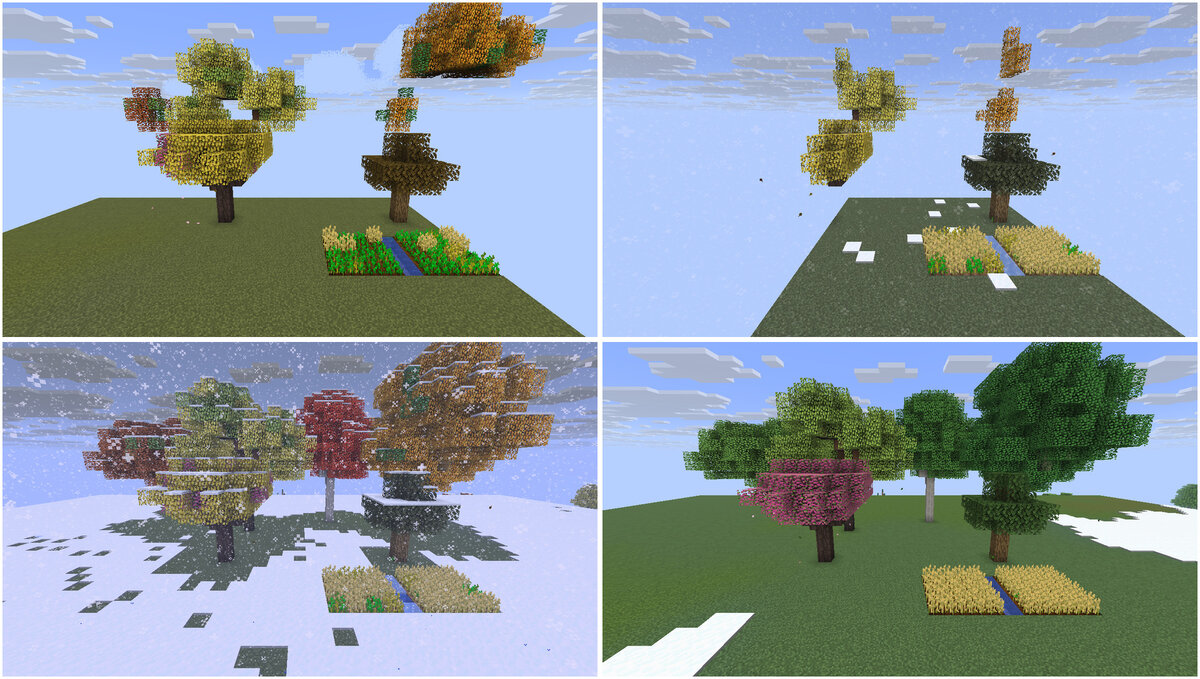
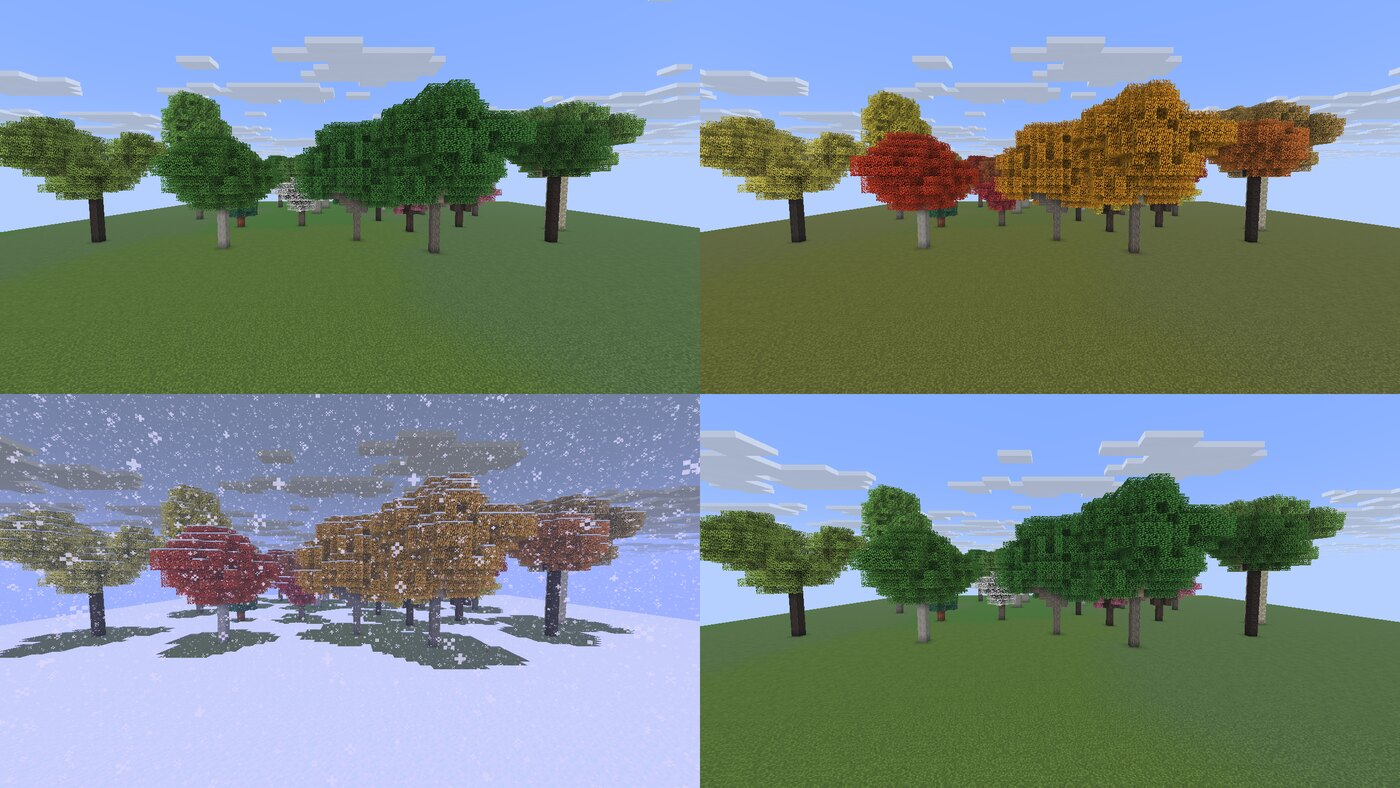
Docs: pipe and engine shots, dust storm, clean seasons sequence; roadmap cannon shot types and engineering ideas; release 1.6.0
Claude-Session: https://claude.ai/code/session_01M5QtgiQGYPBXfdb72XCowG

diff --git a/docs/engineering_ideas.md b/docs/engineering_ideas.md
@@ -1,0 +1,247 @@
+# Engineering ideas
+
+A brainstorm of new engineering blocks and items for RyanCraft. Nothing here is built or promised; it's a pool to pick
+from. It avoids what already exists or is planned (pipes, engines, tanks, pumps, the Ender Terminal, steel, cannons,
+muskets, lead shot, the force field generator, special chests, cages, cooking).
+
+## Design principles
+
+**The tech ceiling.** Muscle, wind, water, weight, springs, fire, plus vanilla's own "magic tech"
+(ender pearls, shulkers, end rods, sculk, copper, the crafter, trial chambers). Nothing electric, no screens, no
+computers, no fuel more advanced than coal and blaze powder. If a 1700s millwright or a vanilla End city couldn't
+plausibly have it, it's out.
+
+**What makes an idea fit:**
+- **It plugs into what we have.** The common currency is the *engine pulse*: an engine pushes one stroke into the
+  block it faces. New power sources should make pulses too, and new machines should take them. Items go in and out by
+  pipe or hopper; fluids by fluid pipe; control is plain redstone.
+- **You can see it work.** Gears turn, sails spin, arms swing, items ride. A machine that just sits there with a GUI is
+  a worse idea than one you can watch.
+- **Vanilla materials, vanilla look.** Planks, logs, cobble, iron, copper, our steel, wool, string, leather. Textures in
+  the 16x16 vanilla style, and every block should look fine in a plain survival base.
+- **Small, not a tech tree.** Each block does one clear job. Redstone already covers logic, so we don't add logic gates.
+- **Copper ages.** Copper parts should oxidise and be waxable, like vanilla copper, and ideally oxidation should matter
+  (slower, quieter, or just a look you can pick).
+
+## Ideas
+
+### Power from nature: wind, water and animals
+
+**1. Waterwheel**
+- *Pitch:* a big wooden wheel that turns in flowing water and gives steady, slow engine pulses for free.
+- *Play:* a 3x3 (or 5x5) wheel placed beside its hub block; flowing water on the paddles turns it. The hub's axle face
+  pulses like a redstone engine (slow but never needs fuel). Faster water (more flowing blocks under the wheel) means a
+  shorter period. Stops if the water freezes in winter, which ties into seasons.
+- *Recipe:* hub from logs and an iron ingot; paddles from planks and sticks, placed in a ring.
+- *Why vanilla:* it's just wood and water, and vanilla already has flowing-water mechanics and moving parts to show it off.
+
+**2. Windmill sails**
+- *Pitch:* sails on a hub that spin faster the higher and more open they are.
+- *Play:* a hub with four wool-and-stick sail arms. Pulse rate scales with height (reusing the altitude wind we
+  already have in the ambience) and drops if blocks crowd the sails. Gets a boost in thunderstorms. Wool colour
+  is cosmetic.
+- *Recipe:* hub from logs and iron; each sail from sticks, string and any wool.
+- *Why vanilla:* wool and sticks, and it rewards the same "build a tower" instinct vanilla players already have.
+
+**3. Treadwheel**
+- *Pitch:* a big wooden wheel that a mob walks in to make power.
+- *Play:* lead a cow, pig, horse, villager or yourself into the wheel; walking turns it and pulses the axle. Stronger
+  mobs (horses, our oxen-sized bison) pulse faster. Animals need feeding now and then or they slow down; feeding through
+  a hopper keeps it going.
+- *Recipe:* planks, logs, a lead.
+- *Why vanilla:* it uses leads, animal feeding and mob pathing, all things the game already has.
+
+**4. Axle and gearbox**
+- *Pitch:* wooden axles and a gearbox that carry engine pulses around corners and over distance.
+- *Play:* axles carry pulses in a straight line (up to 16 blocks, each step losing nothing but turning visibly). A
+  gearbox splits or turns the pulse 90 degrees, or steps it up (half the strength, twice as often) or down (twice the
+  strength, half as often), set with the wrench. Lets a waterwheel at the river power a blast furnace up the hill.
+- *Recipe:* axle from stripped logs; gearbox from planks, iron nuggets and a copper ingot (copper gears). Steel gearbox
+  for long runs.
+- *Why vanilla:* it's the missing piece between "power source" and "machine", in wood and copper.
+
+**5. Clockwork spring**
+- *Pitch:* a wind-up spring that stores pulses and lets them out later.
+- *Play:* feed it pulses (from any engine, wheel or treadwheel) and the spring winds up, shown by a visible coil. When
+  redstone tells it to, it unwinds, delivering the stored pulses in a burst. Up to a few hundred pulses stored. You can
+  also wind it by hand by right-clicking (slowly). A redstone comparator reads how wound it is.
+- *Recipe:* steel ingots, an iron block, a copper ingot.
+- *Why vanilla:* it's a battery without electricity, and the comparator readout works like a composter or a chest.
+
+### Clockwork and logistics
+
+**6. Mechanical sorter (bin sorter)**
+- *Pitch:* a wooden hopper-like box with an item frame on each side that drops matching items out that side.
+- *Play:* items piped or hoppered in exit the face whose item frame shows that item, otherwise straight through. Each
+  pulse from an engine or axle speeds it up; unpowered it works at hopper speed.
+- *Recipe:* chest, hopper, planks, a comparator.
+- *Why vanilla:* item frames as filters are already how players label things, so it reads instantly.
+
+**7. Escapement clock**
+- *Pitch:* a grandfather clock that gives a redstone pulse at set times of day.
+- *Play:* two blocks tall with a swinging pendulum. Set an hour with the wrench (or right-click to cycle dawn, noon,
+  dusk, midnight) and it pulses redstone at that time. Also chimes. Doubles as a decorative block that shows the time
+  on its face, like the vanilla clock item.
+- *Recipe:* a vanilla clock, planks, gold nuggets, glass.
+- *Why vanilla:* it's the clock item turned into a block, and a daylight sensor's big brother.
+
+**8. Copper bell-crank relay**
+- *Pitch:* copper arms that pass a redstone pulse along a long way without dust, and age as they do.
+- *Play:* a thin copper rod on a pivot. Push a pulse in one end and it tips the next crank, and so on, with a click you
+  can hear down the line. Oxidised cranks are a tick slower each; waxed cranks keep their speed. Lets players run
+  signals through walls and ceilings in old-mansion style (like servants' bell pulls).
+- *Recipe:* copper ingots and a lightning rod.
+- *Why vanilla:* it's a mechanical cousin of the copper bulb and the lightning rod, and uses oxidation as a feature.
+
+**9. Steel crafter press**
+- *Pitch:* a vanilla crafter in a steel frame that crafts whenever an engine pulses it.
+- *Play:* takes the crafter's slots and recipe, but each engine pulse fires one craft and pushes the result into an
+  adjacent pipe. Faster engines craft faster, so this is where the Stirling engine's speed pays off. Can also compress
+  (nine nuggets into an ingot) in bulk.
+- *Recipe:* a crafter surrounded by steel ingots and a piston.
+- *Why vanilla:* it's literally the 1.21 crafter, just driven by our power instead of redstone ticks.
+
+### Ender and shulker contraptions
+
+**10. Shulker conveyor (lid lift)**
+- *Pitch:* stacked shulker-shell blocks that lift items straight up like the shulker's own levitation.
+- *Play:* a column of these blocks lifts dropped items (and gently, players and mobs) upwards, a block per tick, with
+  faint levitation particles. Stops at a solid block or an inventory, which it inserts into. Redstone turns it off.
+  A cheap, magic alternative to a vertical pipe for loose items.
+- *Recipe:* a shulker shell, a popped chorus fruit, purpur blocks.
+- *Why vanilla:* it's shulker levitation, harnessed, in purpur, the same way an End city would build an elevator.
+
+**11. Ender relay pipe pair**
+- *Pitch:* two linked pipe ends that teleport items between them, like a cheap one-way ender chest.
+- *Play:* craft two relays at once; they're linked. Items piped into one pop out of the other within the same
+  dimension, up to a range set by how many ender pearls went in (or unlimited with an eye of ender). Each item has a
+  small chance to "lose a pearl" and need refuelling, so it's a cost, not free logistics. Shows ender particles.
+- *Recipe:* ender pipes, ender pearls, an end rod.
+- *Why vanilla:* pearls teleport things; this just teleports items.
+
+**12. Chorus graft (living conduit)**
+- *Pitch:* a chorus-plant block that grows along a path and carries items through its stalks.
+- *Play:* plant on end stone or our "End soil", then guide its growth by placing end rods as stakes. Items put into
+  the root ride the stalks to the tip, slower than a pipe but self-extending. Chorus flowers on the tip pop items out.
+  Break any segment and the rest above drops, like real chorus.
+- *Recipe:* chorus flower, ender pearl, end stone.
+- *Why vanilla:* chorus already grows and teleports you when eaten; this is the plant used as plumbing.
+
+**13. Sculk listening post**
+- *Pitch:* a calibrated sculk sensor in a frame that listens over a long range and remembers what it heard.
+- *Play:* tuned with the wrench to one vibration type (footsteps, chest opening, explosions, pipe items arriving). It
+  emits redstone when that type happens within 32 blocks. Pairs with cannons as an early-warning system, or with the
+  Ender Terminal to sound a bell when something arrives.
+- *Recipe:* calibrated sculk sensor, an echo shard, steel ingots, a spyglass.
+- *Why vanilla:* it's the calibrated sculk sensor with a longer ear, so it plays by rules players already know.
+
+**14. Vault key cutter**
+- *Pitch:* a bench that cuts your own "trial keys", so you can lock a block to a key.
+- *Play:* put an iron or steel ingot and a name tag in, get a key with a name. Lock a special chest, a door or an
+  Ender Terminal by using the key on it; only that key (or a copy cut from it) opens it. Copies need the original.
+  Doors open with an iron door sound.
+- *Recipe:* a grindstone, iron ingots, a trial key.
+- *Why vanilla:* trial keys and vaults already exist; this gives players the same idea for their own base.
+
+**15. End rod beam lantern**
+- *Pitch:* an end rod in a steel housing that throws a long straight beam of light and ender particles.
+- *Play:* lights blocks along a line up to 24 blocks (placing invisible light sources), turnable with a wrench. When
+  struck by a redstone pulse it flashes, so it can signal between bases at night. Pairs with defences as a searchlight.
+- *Recipe:* end rod, steel ingots, glass, a shulker shell.
+- *Why vanilla:* end rods already glow and drift particles; this just aims one.
+
+### Building and lifting
+
+**16. Treadwheel crane**
+- *Pitch:* a wooden jib crane that lifts and swings whole blocks.
+- *Play:* place the crane base and a jib of beams; a chain hangs from the tip. Click a block with the hook to pick it
+  up (as a falling-block entity), then turn and lower it with controls on the base, or drive it from a treadwheel or
+  engine. Lifts heavy blocks like anvils, bells and tanks into place.
+- *Recipe:* logs, chains, an iron block for the hook, a lead.
+- *Why vanilla:* chains, anvils and falling blocks are all vanilla, and medieval cathedral builders did exactly this.
+
+**17. Counterweight lift**
+- *Pitch:* a two-shaft elevator balanced with a weight, no power needed to go down.
+- *Play:* a platform on chains with a counterweight on the other side. Load the counterweight with stone (more weight
+  means faster rise). Ride up by pulling a lever; going down lifts the weight back up. An engine or treadwheel can winch
+  it if the weight's too light.
+- *Recipe:* chain, pulleys from planks and iron nuggets, a smooth stone slab platform.
+- *Why vanilla:* chains and weight; it feels like a mineshaft lift out of a ruined mineshaft.
+
+**18. Pile driver**
+- *Pitch:* a tall wooden frame that drops a steel weight to break blocks straight down.
+- *Play:* each engine pulse lifts the weight and drops it, breaking one block below it per hit and moving down, like a
+  slow vertical quarry one column wide. Drops go into an adjacent chest or pipe. Can't break obsidian or bedrock.
+- *Recipe:* logs, chains, a steel block, a piston.
+- *Why vanilla:* it's a heavy anvil on a rope, which vanilla anvils already do when they fall.
+
+### Farming machines
+
+**19. Bellows**
+- *Pitch:* a leather bellows that speeds up any furnace, smoker or blast furnace it blows into.
+- *Play:* pump it by hand (right-click) or let an engine pulse it. Each puff makes the furnace cook faster for a
+  moment and kicks up flame particles. Works on campfires too (cooks food faster) and can relight a doused campfire.
+  A cheap, early-game version of what our engines do to blast furnaces.
+- *Recipe:* planks, leather, an iron nugget.
+- *Why vanilla:* it's leather and wood, and the "pump it and see the fire flare" moment is very vanilla.
+
+**20. Millstone**
+- *Pitch:* a stone grinding wheel that turns wheat into flour and bones into more bonemeal.
+- *Play:* turn by hand or with an engine, waterwheel or treadwheel through an axle. Grinds wheat to flour (for our
+  Farmer's Delight baking), bones to more bonemeal than crafting, cobble to gravel, gravel to sand, and sugar cane to
+  more sugar. Output drops into a pipe or chest below.
+- *Recipe:* two smooth stone, a grindstone, a stick.
+- *Why vanilla:* it's the grindstone's bigger sibling, and "grind cobble into sand" has always been the dream.
+
+**21. Seed drill**
+- *Pitch:* a horse-drawn (or lead-drawn) cart that plants seeds as it moves.
+- *Play:* hitch it to a horse, donkey or mule with a lead and ride over farmland. It plants whatever seeds are in its
+  hopper slot and tills the dirt ahead if fitted with a hoe. A harvest rake attachment cuts ripe crops and fills a chest.
+- *Recipe:* minecart-style body of planks, a hopper, iron hoes.
+- *Why vanilla:* it uses leads and horses, and it's the farm equivalent of the boat-with-a-chest.
+
+**22. Copper sprinkler**
+- *Pitch:* a copper head on a fluid pipe that waters crops around it.
+- *Play:* connect a fluid pipe carrying water. While fed, it sprays a 9x9 circle, keeping farmland moist and nudging
+  crop growth slightly. Puts out fires. Oxidised heads spray a smaller circle; waxed keeps full range. Also melts snow
+  off crops in winter, which helps with seasons.
+- *Recipe:* copper ingots, a dispenser.
+- *Why vanilla:* copper is already a "water and weather" metal in vanilla, and it hooks straight into our fluid pipes.
+
+### Defence that pairs with cannons
+
+**23. Gunpowder mill (incorporating mill)**
+- *Pitch:* a heavy stone-wheel mill that makes gunpowder more efficiently from charcoal, saltpetre and bonemeal.
+- *Play:* powered by axle, engine or wheel. Takes charcoal, sugar or bonemeal, and (when salt arrives) saltpetre, and
+  turns out gunpowder. Gives the cannon and musket supply chain a real production step instead of only creeper farms.
+  A small chance to "flash" (a harmless puff of smoke and burnt powder) if run unattended without a water bucket nearby.
+- *Recipe:* two smooth stone, a grindstone, steel ingots.
+- *Why vanilla:* gunpowder is a vanilla item, and this just gives it a crafting route that fits the era.
+
+**24. Ballista and portcullis**
+- *Pitch:* a winch-loaded giant crossbow for walls, and a steel portcullis that drops on a redstone signal.
+- *Play:* the ballista fires a bolt (an arrow with a flint-and-steel head) far and hard, loaded by turning a crank or by
+  one engine pulse. Rotated by hand. The portcullis is a multi-block steel gate that slides down when powered, crushing
+  nothing but blocking all mobs; raised again with a winch. Pairs naturally with cannons on a castle wall.
+- *Recipe:* ballista from logs, a crossbow, string, steel; portcullis from steel bars and chains.
+- *Why vanilla:* the crossbow and iron bars are vanilla; these are just bigger, castle-sized versions.
+
+**25. Wind ward**
+- *Pitch:* a breeze-rod and copper "ward" that pushes mobs back from a doorway like a wind charge.
+- *Play:* when a mob crosses its line (detected by a sculk sensor input or tripwire), it gusts a wind charge outward,
+  knocking the mob back a few blocks. Players can pass if sneaking. Uses one breeze rod per 64 gusts.
+- *Recipe:* breeze rod, copper block, a dispenser.
+- *Why vanilla:* wind charges already do this; it's a turret built from trial chamber loot.
+
+## Best first five
+
+1. **Waterwheel.** The most nostalgic power source of all, free and visible, and it just emits the engine pulse we
+   already have, so every pipe, pump and blast furnace works with it on day one.
+2. **Axle and gearbox.** Small to build but it multiplies the value of everything else: it lets power reach where it's
+   needed and makes the waterwheel, windmill and treadwheel practical.
+3. **Bellows.** Cheap, early-game, very hands-on, and it fills the gap below the Stirling engine for players who don't
+   have power yet.
+4. **Millstone.** Gives a reason to build power before steel (flour for the planned Farmer's Delight, sand from cobble),
+   and works by hand, by engine or by wheel.
+5. **Shulker conveyor.** The best End-themed idea: a striking, easy-to-understand use of shulker levitation that solves
+   a real problem (getting items up a tower) without competing with pipes.

diff --git a/README.md b/README.md
@@ -80,7 +80,11 @@ Every catch is called out, and the **Angler's Logbook** keeps your personal best
 - Crops stall in winter unless they're in a greenhouse.
 - The Season Calendar tells you the date, and `/season set` jumps to any season.
 
-![Autumn, first snow, winter, spring thaw](docs/seasons.jpg)
+![The same grove through the year: summer, autumn, winter, spring](docs/seasons.jpg)
+
+**Dust storms**: a thunderstorm over the desert or badlands brings a dust storm instead. Thick sandy fog (rust-red in the badlands), blowing dust, a howling wind, and thirst runs out faster.
+
+![A dust storm in the badlands](docs/dust_storm.jpg)
 
 **Thirst**: a row of droplets over the hunger bar. It drains slowly, so it's there without being a chore, and faster when you sprint or stand in the desert sun.
 - Sip from any water with an empty hand.
@@ -106,7 +110,9 @@ Tekkit-style transport that feels vanilla. You can watch items ride through the 
   - an iron-hooped vat that collects rain
   - an Archimedes screw pump that lowers its intake into the pool
   - a hand pump that draws groundwater into a tank beside it
-- **Ender Terminal:** an end portal frame wired with redstone. It sees every chest with an Ender Pipe on it, and pulls out whatever you click.
+- **Ender Terminal:** an end portal frame wired with redstone. It sees every chest with an Ender Pipe on it. Click an item and the Ender Pipe pulls it out, then it rides the pipes back to you.
+
+![Pipes, engines and the Ender Terminal](docs/pipes_engines.jpg)
 
 ![Tanks and pumps](docs/tanks_pumps.png)
 

diff --git a/ROADMAP.md b/ROADMAP.md
@@ -158,10 +158,20 @@ clusters like vanilla's fancy oak. Still to do:
 ## Combat
 Technology tops out around the early age of gunpowder: nothing past a muzzle-loader.
 - **Old combat**: no attack cooldown, as in 1.8 and before.
-- **Cannons**: fire lead (or iron) cannonballs.
+- **Cannons**, with different shot:
+  - **Round shot** (a lead or iron cannonball): long range, smashes blocks.
+  - **Grapeshot** (a canvas bag of lead balls): a short-range spray, deadly to mobs, gentle on blocks.
+  - **Chain shot** (two balls on a chain): spins through the air, tears through wood, sails and fences.
+  - **Canister**: a tin of musket balls, a wider, weaker spray than grapeshot.
+  - **Heated shot**: a ball heated in a furnace first, which sets wood alight where it lands.
+  - **Explosive shell**: a hollow ball packed with gunpowder, which bursts on impact. The top tier, still nothing past a muzzle-loader.
 - **Muskets**: very rudimentary guns, slow to load (powder, ball, ramrod), loud and smoky, inaccurate past close
   range. They fire lead balls.
 - **Lead finally gets a use**: cast lead into musket balls and cannonballs.
+
+## Engineering ideas
+A brainstorm of vanilla-plus machines (waterwheels, windmills, gearboxes, bellows, millstones, a shulker conveyor and
+more) that run on the same engine pulse as everything else: see [docs/engineering_ideas.md](docs/engineering_ideas.md).
 
 ## Mobs: vanilla variants
 - **Creeper variants**: biome-specific creepers, with the original still by far the most common.

diff --git a/docs/CHANGELOG.md b/docs/CHANGELOG.md
@@ -2,6 +2,18 @@
 
 Release jars are on [GitHub Releases](https://github.com/selenoyl/RyanCraft/releases); each version is built and published automatically when `mod_version` is bumped. Plans for later are in [ROADMAP.md](../ROADMAP.md).
 
+## 1.6.0
+- **Dust storms**: thunderstorms over deserts and badlands become dust storms, with:
+  - sandy fog (rust-red over the badlands) that closes in to about 40 blocks
+  - fine dust blowing past
+  - a howling wind
+  - faster thirst for anyone caught outside
+- The Ender Terminal makes a soft mechanical clunk when you deposit items, instead of a teleport sound. The items
+  travel the pipes.
+- Front page: new shots of the pipes and engines, a dust storm, and a clean four-season sequence.
+- Roadmap: cannon shot types (round shot, grapeshot, chain shot, canister, heated shot, explosive shell) and a
+  brainstorm of vanilla-plus engineering machines.
+
 ## 1.5.1
 - **Steel decoration blocks**: Cut Steel (with stairs and slab), Steel Plating, Chiseled Steel, a see-through Steel
   Grate, Steel Bars, and a redstone-operated Steel Door and Trapdoor. Most can also be made on the stonecutter
